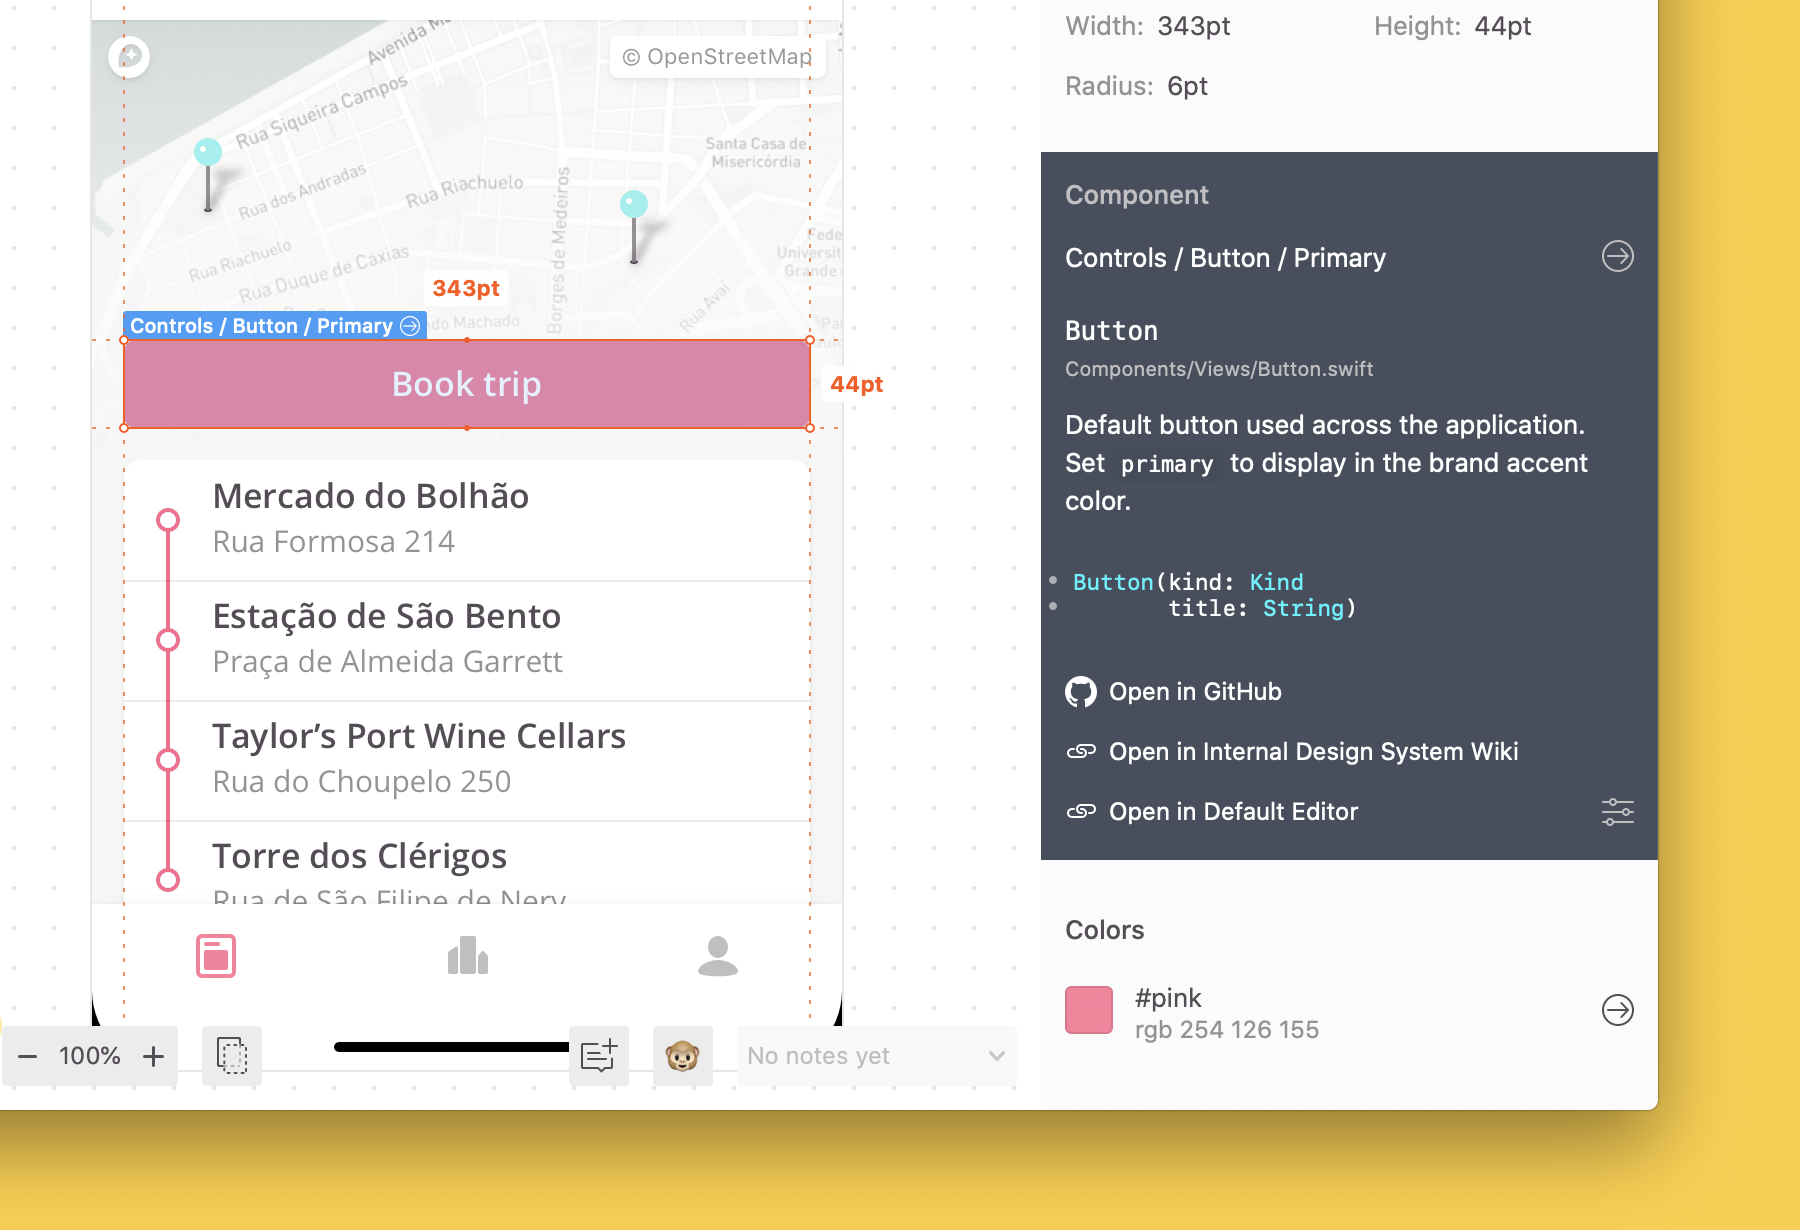
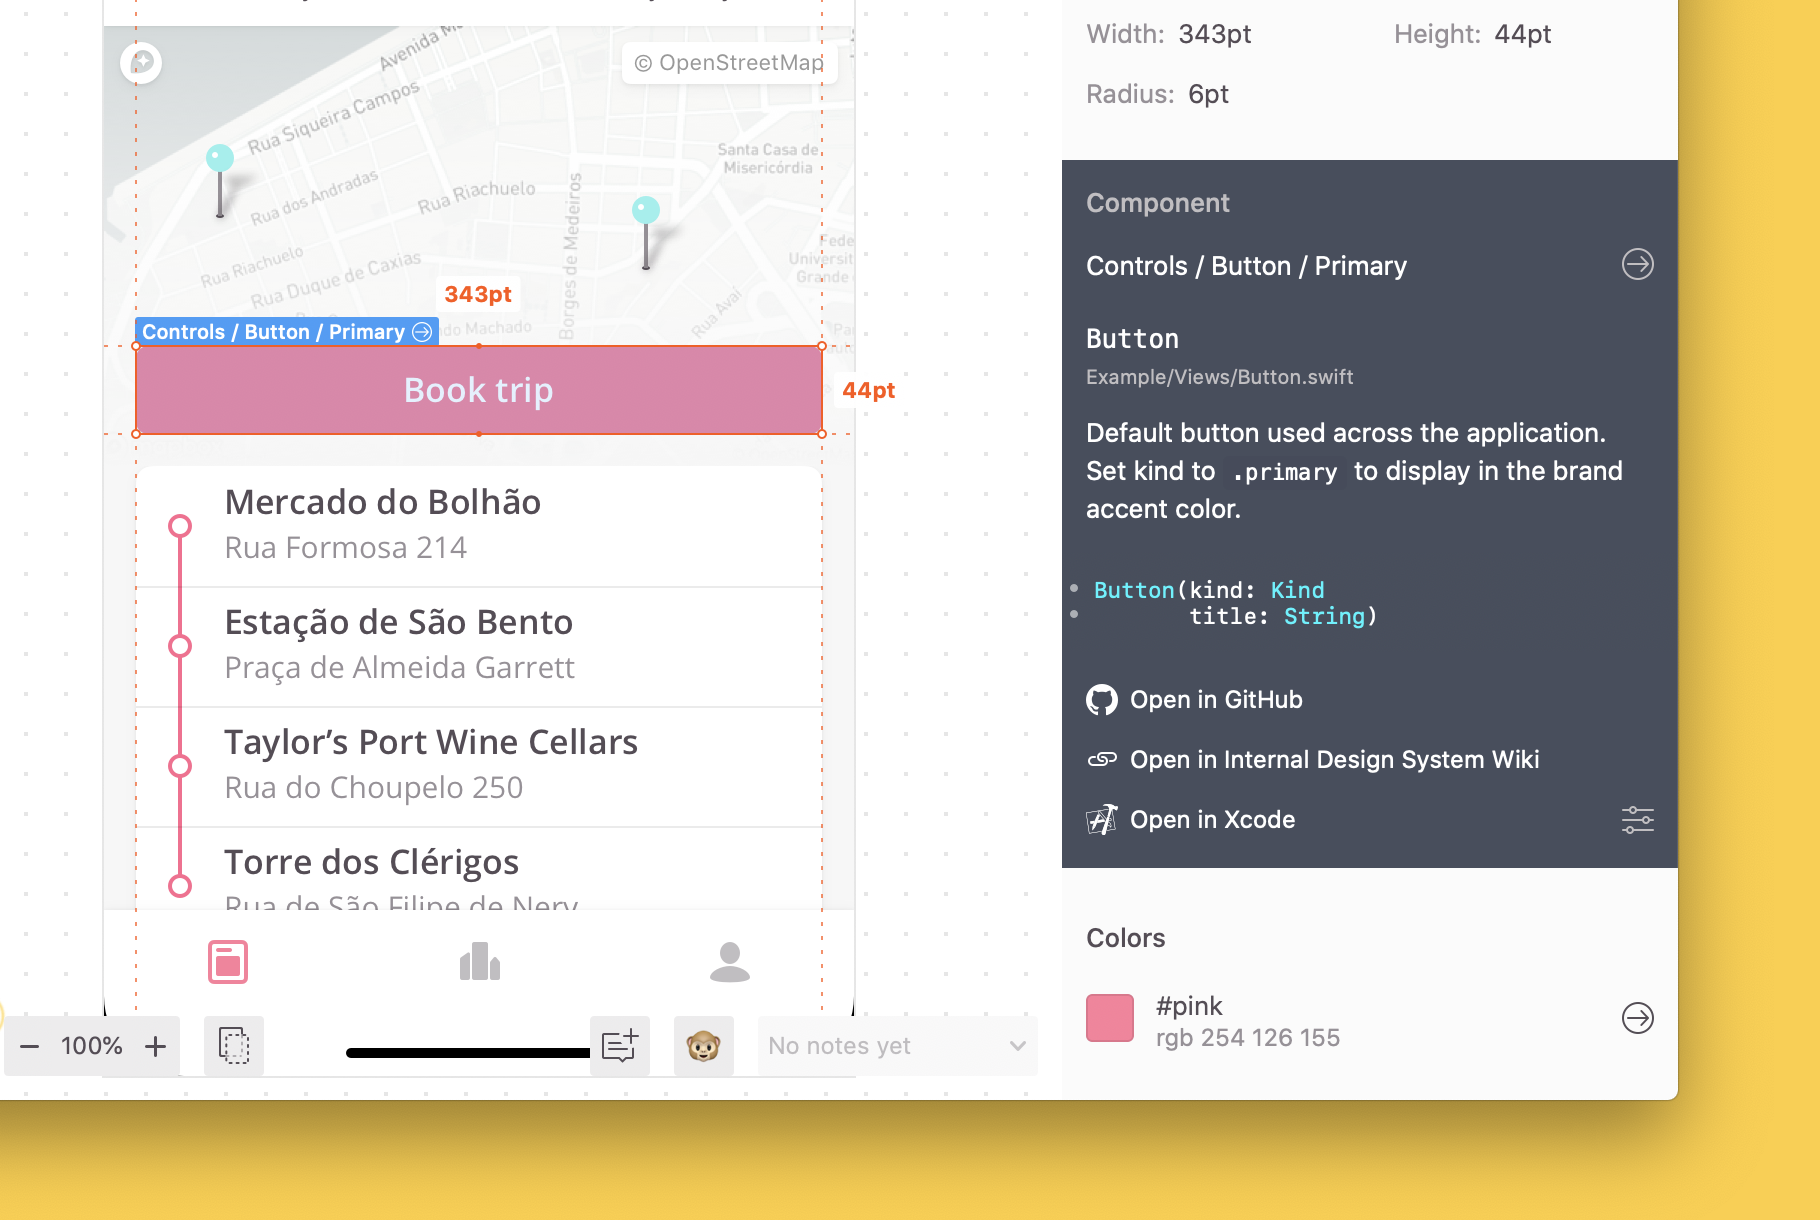
Update `swift` example image

diff --git a/docs/gettingStarted/SWIFT.md b/docs/gettingStarted/SWIFT.md
@@ -58,7 +58,7 @@ After adding projects or styleguides to our configuration file, it should look l
 
 Adding a component from your codebase to the configuration file is pretty straightforward—we'll add an object to the `components` list.
 
-In this example, we'll go with a `Button.swift` file under `Components/Views`. Pick a reusable Swift component file from your codebase and let's update our configuration file to look like so:
+In this example, we'll go with a `Button.swift` file under `Example/Views`. Pick a reusable Swift component file from your codebase and let's update our configuration file to look like so:
 
 ```json
 {
@@ -68,7 +68,7 @@ In this example, we'll go with a `Button.swift` file under `Components/Views`. P
     ],
     "components": [
         {
-            "path": "Components/Views/Button.swift",
+            "path": "Example/Views/Button.swift",
             "zeplinNames": []
         }
     ]
@@ -97,7 +97,7 @@ Let's add this name to the `zeplinNames` list:
     ],
     "components": [
         {
-            "path": "Components/Views/Button.swift",
+            "path": "Example/Views/Button.swift",
             "zeplinNames": [
                 "Controls / Button / Primary"
             ]
@@ -167,7 +167,7 @@ Now, we'll update our configuration file to use the plugin. We can do that by ad
     ],
     "components": [
         {
-            "path": "Components/Views/Button.swift",
+            "path": "Example/Views/Button.swift",
             "zeplinNames": [
                 "Controls / Button / Primary",
                 "Controls / Button / Primary, Hover",
